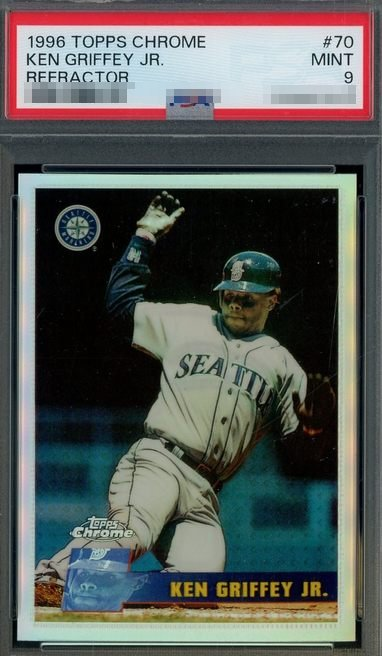
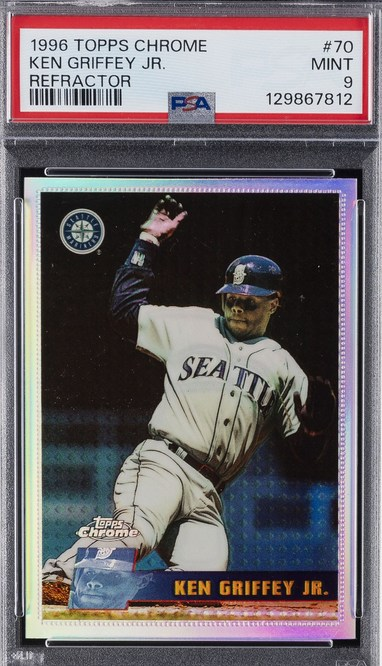
Replace 1996 Topps Chrome Refractor #70 photo with a better one

diff --git a/1996/topps-chrome/index.html b/1996/topps-chrome/index.html
@@ -103,7 +103,7 @@ ul.plain li{margin:0 0 7px}ul.plain a{color:var(--dim);text-decoration:none;font
 <body>
 <div class="wrap">
 <a class="home" href="/">◂ Griffey Card Prices — interactive guide</a>
-<h1>1996 Topps Chrome Ken Griffey Jr. Card Values — What&rsquo;s It Worth?</h1><p class="sub">1996 Topps Chrome Ken Griffey Jr. card prices from real eBay sold listings: 5 cards tracked, topping out at $4,300. Updated daily.</p><p class="answer">Among the eBay sales tracked here, the highest is the <b>Refractor #70</b> in PSA 9 at $4,300. A raw copy of that same card has sold for $2,550, depending on condition.</p><div class="tblwrap"><div class="theadwrap"><table class="ptable"><colgroup><col><col class="codds"><col class="cp"><col class="cp"><col class="cp"><col class="cp"><col class="ceb"></colgroup><thead><tr><th>Card</th><th>Odds</th><th>Raw</th><th>PSA 8</th><th>PSA 9</th><th>PSA 10</th><th class="theb">eBay</th></tr></thead></table></div><div class="scrollx"><table class="ptable"><colgroup><col><col class="codds"><col class="cp"><col class="cp"><col class="cp"><col class="cp"><col class="ceb"></colgroup><tbody><tr><td class="cname">Base #70</td><td class="odds"></td><td class="raw">$26</td><td class="psa8">$17</td><td class="psa9"><span class="tr up">▲</span>$120</td><td class="psa10">$790</td><td class="eb"><a class="eb" href="https://www.ebay.com/sch/i.html?_nkw=1996%20Topps%20Chrome%20Ken%20Griffey%20Jr%20%2370&_sacat=0" target="_blank" rel="sponsored noopener" title="See sold listings on eBay" aria-label="Search eBay sold listings for 1996 Topps Chrome Ken Griffey Jr #70"><svg viewBox="0 0 24 24" width="15" height="15" aria-hidden="true" focusable="false"><circle cx="10.5" cy="10.5" r="6.5" fill="none" stroke="currentColor" stroke-width="2.2"/><line x1="15.4" y1="15.4" x2="21" y2="21" stroke="currentColor" stroke-width="2.4" stroke-linecap="round"/></svg></a></td></tr><tr><td class="cname">Refractor #70</td><td class="odds">1:12</td><td class="raw">$2,550</td><td class="psa8">—</td><td class="psa9"><span class="tr up">▲</span>$4,300</td><td class="psa10">—</td><td class="eb"><a class="eb" href="https://www.ebay.com/sch/i.html?_nkw=1996%20Topps%20Chrome%20Ken%20Griffey%20Jr%20Refractor%20%2370&_sacat=0" target="_blank" rel="sponsored noopener" title="See sold listings on eBay" aria-label="Search eBay sold listings for 1996 Topps Chrome Ken Griffey Jr Refractor #70"><svg viewBox="0 0 24 24" width="15" height="15" aria-hidden="true" focusable="false"><circle cx="10.5" cy="10.5" r="6.5" fill="none" stroke="currentColor" stroke-width="2.2"/><line x1="15.4" y1="15.4" x2="21" y2="21" stroke="currentColor" stroke-width="2.4" stroke-linecap="round"/></svg></a></td></tr><tr><td class="cname">Star Power #90</td><td class="odds"></td><td class="raw">—</td><td class="psa8">$20</td><td class="psa9">$49</td><td class="psa10">$465</td><td class="eb"><a class="eb" href="https://www.ebay.com/sch/i.html?_nkw=1996%20Topps%20Chrome%20Ken%20Griffey%20Jr%20Star%20Power%20%2390&_sacat=0" target="_blank" rel="sponsored noopener" title="See sold listings on eBay" aria-label="Search eBay sold listings for 1996 Topps Chrome Ken Griffey Jr Star Power #90"><svg viewBox="0 0 24 24" width="15" height="15" aria-hidden="true" focusable="false"><circle cx="10.5" cy="10.5" r="6.5" fill="none" stroke="currentColor" stroke-width="2.2"/><line x1="15.4" y1="15.4" x2="21" y2="21" stroke="currentColor" stroke-width="2.4" stroke-linecap="round"/></svg></a></td></tr><tr><td class="cname">Star Power Refractor #90</td><td class="odds"></td><td class="raw"><span class="tr down">▼</span>$718</td><td class="psa8">$800</td><td class="psa9"><span class="tr up">▲</span>$2,356</td><td class="psa10">—</td><td class="eb"><a class="eb" href="https://www.ebay.com/sch/i.html?_nkw=1996%20Topps%20Chrome%20Ken%20Griffey%20Jr%20Star%20Power%20Refractor%20%2390&_sacat=0" target="_blank" rel="sponsored noopener" title="See sold listings on eBay" aria-label="Search eBay sold listings for 1996 Topps Chrome Ken Griffey Jr Star Power Refractor #90"><svg viewBox="0 0 24 24" width="15" height="15" aria-hidden="true" focusable="false"><circle cx="10.5" cy="10.5" r="6.5" fill="none" stroke="currentColor" stroke-width="2.2"/><line x1="15.4" y1="15.4" x2="21" y2="21" stroke="currentColor" stroke-width="2.4" stroke-linecap="round"/></svg></a></td></tr><tr><td class="cname">Wrecking Crew Refractor #WC9</td><td class="odds"></td><td class="raw">$300</td><td class="psa8"><span class="tr up">▲</span>$520</td><td class="psa9"><span class="tr up">▲</span>$900</td><td class="psa10">—</td><td class="eb"><a class="eb" href="https://www.ebay.com/sch/i.html?_nkw=1996%20Topps%20Chrome%20Ken%20Griffey%20Jr%20Wrecking%20Crew%20Refractor%20%23WC9&_sacat=0" target="_blank" rel="sponsored noopener" title="See sold listings on eBay" aria-label="Search eBay sold listings for 1996 Topps Chrome Ken Griffey Jr Wrecking Crew Refractor #WC9"><svg viewBox="0 0 24 24" width="15" height="15" aria-hidden="true" focusable="false"><circle cx="10.5" cy="10.5" r="6.5" fill="none" stroke="currentColor" stroke-width="2.2"/><line x1="15.4" y1="15.4" x2="21" y2="21" stroke="currentColor" stroke-width="2.4" stroke-linecap="round"/></svg></a></td></tr></tbody></table></div></div><section class="photo-section"><h2 class="ps-h">The Cards</h2><p class="ps-sub">Real photos from the guide — tap any card to zoom in.</p><div class="cardfigs"><figure class="cardfig"><div class="cf-photo"><img src="/img/cards/1996-topps-chrome-refractor-70-griffey-psa9.jpg" alt="1996 Topps Chrome Refractor Ken Griffey Jr. card #70 in PSA 9 slab" width="382" height="656" loading="lazy"><span class="cf-badge">PSA 9 · $4,300</span></div><figcaption>Refractor #70</figcaption></figure></div></section><h2>1996 Topps Chrome Value FAQ</h2><div class="faq"><div class="faq-item"><p class="faq-q">How much is a 1996 Topps Chrome Ken Griffey Jr. card worth?</p><p class="faq-a">Based on eBay sales tracked here, 1996 Topps Chrome Ken Griffey Jr. cards range up to $4,300 for the Refractor #70 in PSA 9. Exact value depends on the specific card and grade.</p></div><div class="faq-item"><p class="faq-q">What is the most valuable 1996 Topps Chrome Ken Griffey Jr. card?</p><p class="faq-a">Among tracked sales, the highest price for a 1996 Topps Chrome Griffey card is the Refractor #70 in PSA 9 at $4,300.</p></div><div class="faq-item"><p class="faq-q">What is a raw (ungraded) 1996 Topps Chrome Ken Griffey Jr. card worth?</p><p class="faq-a">A raw copy of the Refractor #70, the set's top card, has sold for $2,550 — raw prices vary by card and condition.</p></div></div><h2>More 1996 Griffey Sets</h2><ul class="plain"><li><a href="/1996/pinnacle-aficionado/">1996 Pinnacle Aficionado</a></li><li><a href="/1996/bowmans-best/">1996 Bowman's Best</a></li><li><a href="/1996/collectors-choice/">1996 Collector's Choice</a></li><li><a href="/1996/donruss/">1996 Donruss</a></li><li><a href="/1996/e-motion-xl/">1996 E-Motion XL</a></li><li><a href="/1996/finest/">1996 Finest</a></li><li><a href="/1996/flair/">1996 Flair</a></li><li><a href="/1996/fleer/">1996 Fleer</a></li><li><a href="/1996/fleer-update/">1996 Fleer Update</a></li><li><a href="/1996/leaf/">1996 Leaf</a></li><li><a href="/1996/leaf-limited/">1996 Leaf Limited</a></li><li><a href="/1996/metal-universe/">1996 Metal Universe</a></li><li><a href="/1996/pinnacle/">1996 Pinnacle</a></li><li><a href="/1996/summit/">1996 Summit</a></li><li><a href="/1996/score/">1996 Score</a></li><li><a href="/1996/select/">1996 Select</a></li><li><a href="/1996/select-certified/">1996 Select Certified</a></li><li><a href="/1996/sp/">1996 SP</a></li><li><a href="/1996/spx/">1996 SPx</a></li><li><a href="/1996/stadium-club/">1996 Stadium Club</a></li><li><a href="/1996/studio/">1996 Studio</a></li><li><a href="/1996/topps/">1996 Topps</a></li><li><a href="/1996/ultra/">1996 Ultra</a></li><li><a href="/1996/upper-deck/">1996 Upper Deck</a></li><li><a href="/1996/zenith/">1996 Zenith</a></li></ul>
+<h1>1996 Topps Chrome Ken Griffey Jr. Card Values — What&rsquo;s It Worth?</h1><p class="sub">1996 Topps Chrome Ken Griffey Jr. card prices from real eBay sold listings: 5 cards tracked, topping out at $4,300. Updated daily.</p><p class="answer">Among the eBay sales tracked here, the highest is the <b>Refractor #70</b> in PSA 9 at $4,300. A raw copy of that same card has sold for $2,550, depending on condition.</p><div class="tblwrap"><div class="theadwrap"><table class="ptable"><colgroup><col><col class="codds"><col class="cp"><col class="cp"><col class="cp"><col class="cp"><col class="ceb"></colgroup><thead><tr><th>Card</th><th>Odds</th><th>Raw</th><th>PSA 8</th><th>PSA 9</th><th>PSA 10</th><th class="theb">eBay</th></tr></thead></table></div><div class="scrollx"><table class="ptable"><colgroup><col><col class="codds"><col class="cp"><col class="cp"><col class="cp"><col class="cp"><col class="ceb"></colgroup><tbody><tr><td class="cname">Base #70</td><td class="odds"></td><td class="raw">$26</td><td class="psa8">$17</td><td class="psa9"><span class="tr up">▲</span>$120</td><td class="psa10">$790</td><td class="eb"><a class="eb" href="https://www.ebay.com/sch/i.html?_nkw=1996%20Topps%20Chrome%20Ken%20Griffey%20Jr%20%2370&_sacat=0" target="_blank" rel="sponsored noopener" title="See sold listings on eBay" aria-label="Search eBay sold listings for 1996 Topps Chrome Ken Griffey Jr #70"><svg viewBox="0 0 24 24" width="15" height="15" aria-hidden="true" focusable="false"><circle cx="10.5" cy="10.5" r="6.5" fill="none" stroke="currentColor" stroke-width="2.2"/><line x1="15.4" y1="15.4" x2="21" y2="21" stroke="currentColor" stroke-width="2.4" stroke-linecap="round"/></svg></a></td></tr><tr><td class="cname">Refractor #70</td><td class="odds">1:12</td><td class="raw">$2,550</td><td class="psa8">—</td><td class="psa9"><span class="tr up">▲</span>$4,300</td><td class="psa10">—</td><td class="eb"><a class="eb" href="https://www.ebay.com/sch/i.html?_nkw=1996%20Topps%20Chrome%20Ken%20Griffey%20Jr%20Refractor%20%2370&_sacat=0" target="_blank" rel="sponsored noopener" title="See sold listings on eBay" aria-label="Search eBay sold listings for 1996 Topps Chrome Ken Griffey Jr Refractor #70"><svg viewBox="0 0 24 24" width="15" height="15" aria-hidden="true" focusable="false"><circle cx="10.5" cy="10.5" r="6.5" fill="none" stroke="currentColor" stroke-width="2.2"/><line x1="15.4" y1="15.4" x2="21" y2="21" stroke="currentColor" stroke-width="2.4" stroke-linecap="round"/></svg></a></td></tr><tr><td class="cname">Star Power #90</td><td class="odds"></td><td class="raw">—</td><td class="psa8">$20</td><td class="psa9">$49</td><td class="psa10">$465</td><td class="eb"><a class="eb" href="https://www.ebay.com/sch/i.html?_nkw=1996%20Topps%20Chrome%20Ken%20Griffey%20Jr%20Star%20Power%20%2390&_sacat=0" target="_blank" rel="sponsored noopener" title="See sold listings on eBay" aria-label="Search eBay sold listings for 1996 Topps Chrome Ken Griffey Jr Star Power #90"><svg viewBox="0 0 24 24" width="15" height="15" aria-hidden="true" focusable="false"><circle cx="10.5" cy="10.5" r="6.5" fill="none" stroke="currentColor" stroke-width="2.2"/><line x1="15.4" y1="15.4" x2="21" y2="21" stroke="currentColor" stroke-width="2.4" stroke-linecap="round"/></svg></a></td></tr><tr><td class="cname">Star Power Refractor #90</td><td class="odds"></td><td class="raw"><span class="tr down">▼</span>$718</td><td class="psa8">$800</td><td class="psa9"><span class="tr up">▲</span>$2,356</td><td class="psa10">—</td><td class="eb"><a class="eb" href="https://www.ebay.com/sch/i.html?_nkw=1996%20Topps%20Chrome%20Ken%20Griffey%20Jr%20Star%20Power%20Refractor%20%2390&_sacat=0" target="_blank" rel="sponsored noopener" title="See sold listings on eBay" aria-label="Search eBay sold listings for 1996 Topps Chrome Ken Griffey Jr Star Power Refractor #90"><svg viewBox="0 0 24 24" width="15" height="15" aria-hidden="true" focusable="false"><circle cx="10.5" cy="10.5" r="6.5" fill="none" stroke="currentColor" stroke-width="2.2"/><line x1="15.4" y1="15.4" x2="21" y2="21" stroke="currentColor" stroke-width="2.4" stroke-linecap="round"/></svg></a></td></tr><tr><td class="cname">Wrecking Crew Refractor #WC9</td><td class="odds"></td><td class="raw">$300</td><td class="psa8"><span class="tr up">▲</span>$520</td><td class="psa9"><span class="tr up">▲</span>$900</td><td class="psa10">—</td><td class="eb"><a class="eb" href="https://www.ebay.com/sch/i.html?_nkw=1996%20Topps%20Chrome%20Ken%20Griffey%20Jr%20Wrecking%20Crew%20Refractor%20%23WC9&_sacat=0" target="_blank" rel="sponsored noopener" title="See sold listings on eBay" aria-label="Search eBay sold listings for 1996 Topps Chrome Ken Griffey Jr Wrecking Crew Refractor #WC9"><svg viewBox="0 0 24 24" width="15" height="15" aria-hidden="true" focusable="false"><circle cx="10.5" cy="10.5" r="6.5" fill="none" stroke="currentColor" stroke-width="2.2"/><line x1="15.4" y1="15.4" x2="21" y2="21" stroke="currentColor" stroke-width="2.4" stroke-linecap="round"/></svg></a></td></tr></tbody></table></div></div><section class="photo-section"><h2 class="ps-h">The Cards</h2><p class="ps-sub">Real photos from the guide — tap any card to zoom in.</p><div class="cardfigs"><figure class="cardfig"><div class="cf-photo"><img src="/img/cards/1996-topps-chrome-refractor-70-griffey-psa9.jpg" alt="1996 Topps Chrome Refractor Ken Griffey Jr. card #70 in PSA 9 slab" width="382" height="666" loading="lazy"><span class="cf-badge">PSA 9 · $4,300</span></div><figcaption>Refractor #70</figcaption></figure></div></section><h2>1996 Topps Chrome Value FAQ</h2><div class="faq"><div class="faq-item"><p class="faq-q">How much is a 1996 Topps Chrome Ken Griffey Jr. card worth?</p><p class="faq-a">Based on eBay sales tracked here, 1996 Topps Chrome Ken Griffey Jr. cards range up to $4,300 for the Refractor #70 in PSA 9. Exact value depends on the specific card and grade.</p></div><div class="faq-item"><p class="faq-q">What is the most valuable 1996 Topps Chrome Ken Griffey Jr. card?</p><p class="faq-a">Among tracked sales, the highest price for a 1996 Topps Chrome Griffey card is the Refractor #70 in PSA 9 at $4,300.</p></div><div class="faq-item"><p class="faq-q">What is a raw (ungraded) 1996 Topps Chrome Ken Griffey Jr. card worth?</p><p class="faq-a">A raw copy of the Refractor #70, the set's top card, has sold for $2,550 — raw prices vary by card and condition.</p></div></div><h2>More 1996 Griffey Sets</h2><ul class="plain"><li><a href="/1996/pinnacle-aficionado/">1996 Pinnacle Aficionado</a></li><li><a href="/1996/bowmans-best/">1996 Bowman's Best</a></li><li><a href="/1996/collectors-choice/">1996 Collector's Choice</a></li><li><a href="/1996/donruss/">1996 Donruss</a></li><li><a href="/1996/e-motion-xl/">1996 E-Motion XL</a></li><li><a href="/1996/finest/">1996 Finest</a></li><li><a href="/1996/flair/">1996 Flair</a></li><li><a href="/1996/fleer/">1996 Fleer</a></li><li><a href="/1996/fleer-update/">1996 Fleer Update</a></li><li><a href="/1996/leaf/">1996 Leaf</a></li><li><a href="/1996/leaf-limited/">1996 Leaf Limited</a></li><li><a href="/1996/metal-universe/">1996 Metal Universe</a></li><li><a href="/1996/pinnacle/">1996 Pinnacle</a></li><li><a href="/1996/summit/">1996 Summit</a></li><li><a href="/1996/score/">1996 Score</a></li><li><a href="/1996/select/">1996 Select</a></li><li><a href="/1996/select-certified/">1996 Select Certified</a></li><li><a href="/1996/sp/">1996 SP</a></li><li><a href="/1996/spx/">1996 SPx</a></li><li><a href="/1996/stadium-club/">1996 Stadium Club</a></li><li><a href="/1996/studio/">1996 Studio</a></li><li><a href="/1996/topps/">1996 Topps</a></li><li><a href="/1996/ultra/">1996 Ultra</a></li><li><a href="/1996/upper-deck/">1996 Upper Deck</a></li><li><a href="/1996/zenith/">1996 Zenith</a></li></ul>
 <div class="bottomnav"><div class="bn-label">Browse the guide</div><nav class="yearnav"><a href="/1990/">1990</a><a href="/1991/">1991</a><a href="/1992/">1992</a><a href="/1993/">1993</a><a href="/1994/">1994</a><a href="/1995/">1995</a><span class="on">1996</span><a href="/1997/">1997</a><a href="/1998/">1998</a><a href="/1999/">1999</a><a href="/most-valuable/">Top 25 Sales</a><a href="/biggest-movers/">Biggest Movers</a><a href="/how-much-are-griffey-cards-worth/">Card Values</a><a href="/blog/">Market Reports</a></nav></div>
 <div class="foot">Prices updated August 21, 2026 from real eBay sold listings · Not affiliated with PSA, eBay, or Topps · Built for collectors, by a collector<br><a href="/">griffeycardprices.com</a> · <a href="/site-map/">Site Map</a> · <a href="mailto:shareyoursportscards@gmail.com">shareyoursportscards@gmail.com</a></div>
 </div>
